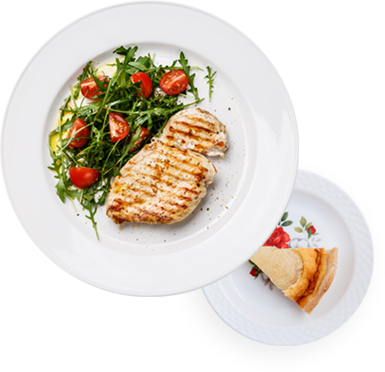
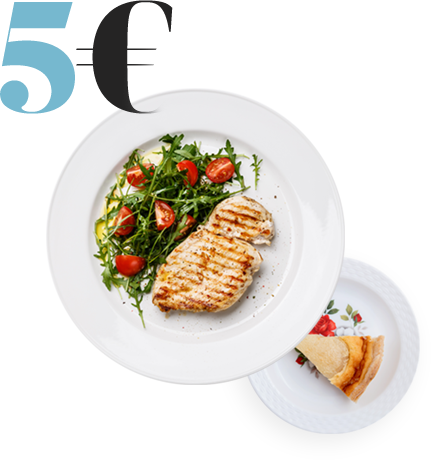
[ADD - UPDATE] pricing section added + assets updated]

diff --git a/app/assets/stylesheets/application.sass b/app/assets/stylesheets/application.sass
@@ -1,39 +1,12 @@
 @import "bootstrap"
 @import "application/**/*"
-// @import "./**/*"
 @import url('https://fonts.googleapis.com/css?family=Lato:300,300i,400,400i,700')
 @import "utils/**/*"
-
-
-// Font face rules
-// @font-face
-//   font-family: "Lato-Light"
-//   src: url(Lato-Light.eot)
-
-// @font-face
-//   font-family: "Lato-Regular"
-//   src: url(Lato-Regular.eot)
-
-// @font-face
-//   font-family: "Lato-Bold"
-//   src: url(Lato-Bold.eot)
-
-// @font-face
-//   font-family: "Lato-Italic"
-//   src: url(Lato-Italic.eot)
-//   font-style: italic
-
-
-@font-face
-  font-family: "PlaylistScript-Regular"
-  src: url(PlaylistScript-Regular.eot)
 
 @font-face
   font-family: 'Butler'
   src: asset-url('Butler-Black.eot?#iefix')
   src: asset-url('Butler-Black.eot?#iefix') format('eot'), asset-url('Butler-Black.woff') format('woff'), asset-url('Butler-Black.ttf') format('truetype'), asset-url('Butler-Black.svg') format('svg')
-
-
 
 .breadcrumb
   background: none
@@ -46,18 +19,19 @@
   &__link,
   &__link--active
     +font_props($font_lato, $bold, 16px, 0.9)
-    text-align: center
     color: $color_greydark !important
     transition: color 0.3s ease-out
+    @include media-breakpoint-up(lg)
+      text-align: center
+    .menu__link--active:after
+        +size(100%, 3px)
+        content: ""
+        display: inline-block
+        background-color: $color_blue
+
     &:hover,
     &:focus
       color: $color_blue !important
-
-  &__link--active:after
-      +size(100%, 3px)
-      content: ""
-      display: inline-block
-      background-color: $color_blue
 
 
 // -----------------------------
@@ -97,6 +71,7 @@
 // -----------------------------
 .steps
   &__container
+    margin: auto
     padding: 245px 0 200px 0
     background-color: $color_redwine
     background-color: #cc5979
@@ -105,14 +80,28 @@
 
   &__illustration
     max-width: 350px
-    height: 265px
+    margin: auto
+    @include media-breakpoint-up(lg)
+      min-height: 200px
+    @include media-breakpoint-up(xl)
+      min-height: 265px
 
   &__description
     +font_props($font_lato, $light, 16px, 1.2)
-    max-width: 250px
+    max-width: 225px
+    min-height: 100px
+    margin: auto
+    padding-top: 20px
     text-align: center
     color: #fff
 
+// -----------------------------
+// Section pricing
+// -----------------------------
+.pricing
+  &__col
+    max-width: 420px
+    padding: 35px 35px 0 35px
 
 // -----------------------------
 // Footer
@@ -216,6 +205,8 @@
   &--brownlight
     color: $color_brownlight
 
+  &--redwine
+    color: $color_redwine
 
 // Input
 .input
